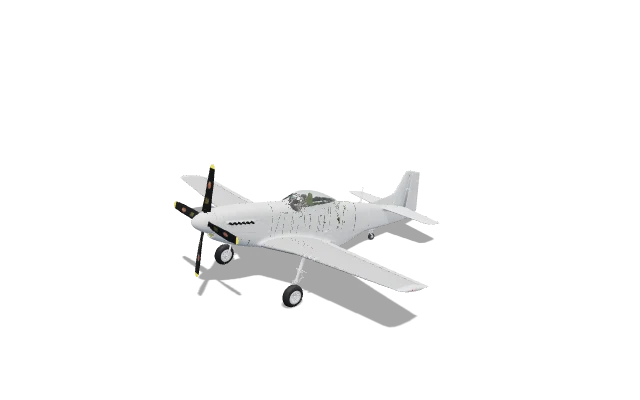
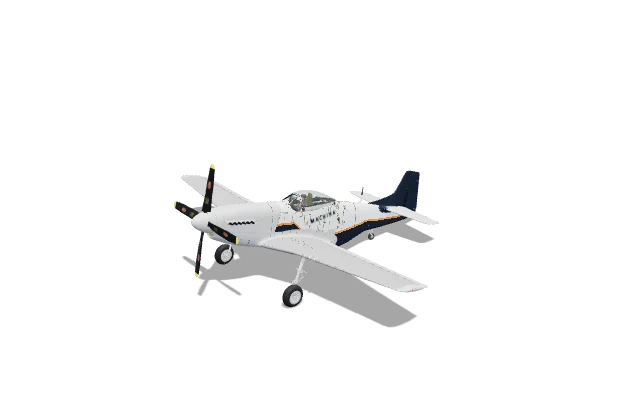
P-51D wears the Machina livery by default
The paint threshold is now per model (machina.light): bare aluminium is darker than airliner white, so the default ramp only half painted it. The picker sets the cheatline colour, as on the airliners.

Changed region(s): [[0.5, 0.42, 0.6562, 0.63], [0.4375, 0.48, 0.5312, 0.6], [0.4375, 0.48, 0.4688, 0.51]]

diff --git a/src/machina-paint.js b/src/machina-paint.js
@@ -82,14 +82,14 @@ function measure(meshes, toRoot) {
 }
 
 const VERT_HEAD = 'uniform mat4 uToRoot;\nvarying vec3 vLiv;\nvarying vec3 vLivN;\n';
-const FRAG_HEAD = `uniform float uBot[${N}];\nuniform float uH[${N}];\nuniform vec2 uX;\nuniform float uH0;\nuniform vec3 uBase, uBelly, uStripe, uTail;\nuniform float uTailAll;\nuniform vec4 uTitleBox;\nuniform sampler2D uTitle;\nvarying vec3 vLiv;\nvarying vec3 vLivN;\n`;
+const FRAG_HEAD = `uniform float uBot[${N}];\nuniform float uH[${N}];\nuniform vec2 uX;\nuniform float uH0;\nuniform vec3 uBase, uBelly, uStripe, uTail;\nuniform float uTailAll;\nuniform vec2 uLight;\nuniform vec4 uTitleBox;\nuniform sampler2D uTitle;\nvarying vec3 vLiv;\nvarying vec3 vLivN;\n`;
 const FRAG_BODY = `
   {
     float fx = clamp((vLiv.x - uX.x) / (uX.y - uX.x), 0.0, 1.0) * ${N - 1}.0;
     int i0 = int(floor(fx)); int i1 = min(i0 + 1, ${N - 1}); float ft = fract(fx);
     float bot = mix(uBot[i0], uBot[i1], ft), hh = mix(uH[i0], uH[i1], ft);
     float lum = dot(diffuseColor.rgb, vec3(0.299, 0.587, 0.114));
-    float paint = smoothstep(0.5, 0.72, lum);
+    float paint = smoothstep(uLight.x, uLight.y, lum);
     float cheat = bot + 0.36 * hh, band = 0.045 * uH0;
     vec3 col = vLiv.y < cheat ? uBelly : (vLiv.y < cheat + band ? uStripe : uBase);
     bool fin = vLiv.y > bot + hh + 0.12 * uH0 && vLiv.x > uX.x + 0.62 * (uX.y - uX.x);
@@ -97,7 +97,7 @@ const FRAG_BODY = `
     vec2 t = vec2((vLiv.x - uTitleBox.x) / uTitleBox.z, (vLiv.y - uTitleBox.y) / uTitleBox.w); // canvas textures are flipped in v already
     if (vLiv.z < 0.0) t.x = 1.0 - t.x; // right side (z < 0): mirror so the title reads normally from that side too
     if (abs(vLivN.z) > 0.3 && t.x > 0.0 && t.x < 1.0 && t.y > 0.0 && t.y < 1.0 && uTailAll < 0.5) { vec4 tc = texture2D(uTitle, t); col = mix(col, tc.rgb, tc.a); }
-    diffuseColor.rgb = mix(diffuseColor.rgb, col * clamp(lum / 0.9, 0.55, 1.0), paint);
+    diffuseColor.rgb = mix(diffuseColor.rgb, col * clamp(lum / (uLight.y + 0.18), 0.55, 1.0), paint);
   }
 `;
 
@@ -114,7 +114,9 @@ function patch(mat, uniforms) {
 
 /**
  * Paint the Machina livery onto a loaded detailed model (before finalize).
- * cfg (model.asset.machina): { parts: body part ids, tail: part ids painted all tail color }
+ * cfg (model.asset.machina): { parts: body part ids, tail: part ids painted all tail color, light: [lo, hi]
+ * linear luminance ramp of the paint that gets replaced, [0.5, 0.72] by default for white airliner
+ * paint, lower for bare metal }
  * @param {{ stripe?: string }} [opts] stripe overrides the cheatline color
  */
 export function applyMachinaPaint(root, cfg, opts = {}) {
@@ -143,7 +145,7 @@ export function applyMachinaPaint(root, cfg, opts = {}) {
   const common = {
     uBot: { value: p.bot }, uH: { value: p.h }, uX: { value: new THREE.Vector2(p.x0, p.x1) }, uH0: { value: p.h0 },
     uBase: { value: new THREE.Color(WHITE) }, uBelly: { value: new THREE.Color(NAVY) }, uStripe: { value: new THREE.Color(opts.stripe ?? ORANGE) }, uTail: { value: new THREE.Color(NAVY) },
-    uTitleBox: { value: new THREE.Vector4(tx, ty, tw, th) }, uTitle: { value: title() },
+    uTitleBox: { value: new THREE.Vector4(tx, ty, tw, th) }, uLight: { value: new THREE.Vector2(...(cfg.light ?? [0.5, 0.72])) }, uTitle: { value: title() },
   };
   for (const [list, tailAll] of [[body, 0], [tail, 1]]) for (const m of list) {
     const u = { ...common, uToRoot: { value: toRoot.get(m) }, uTailAll: { value: tailAll } };
